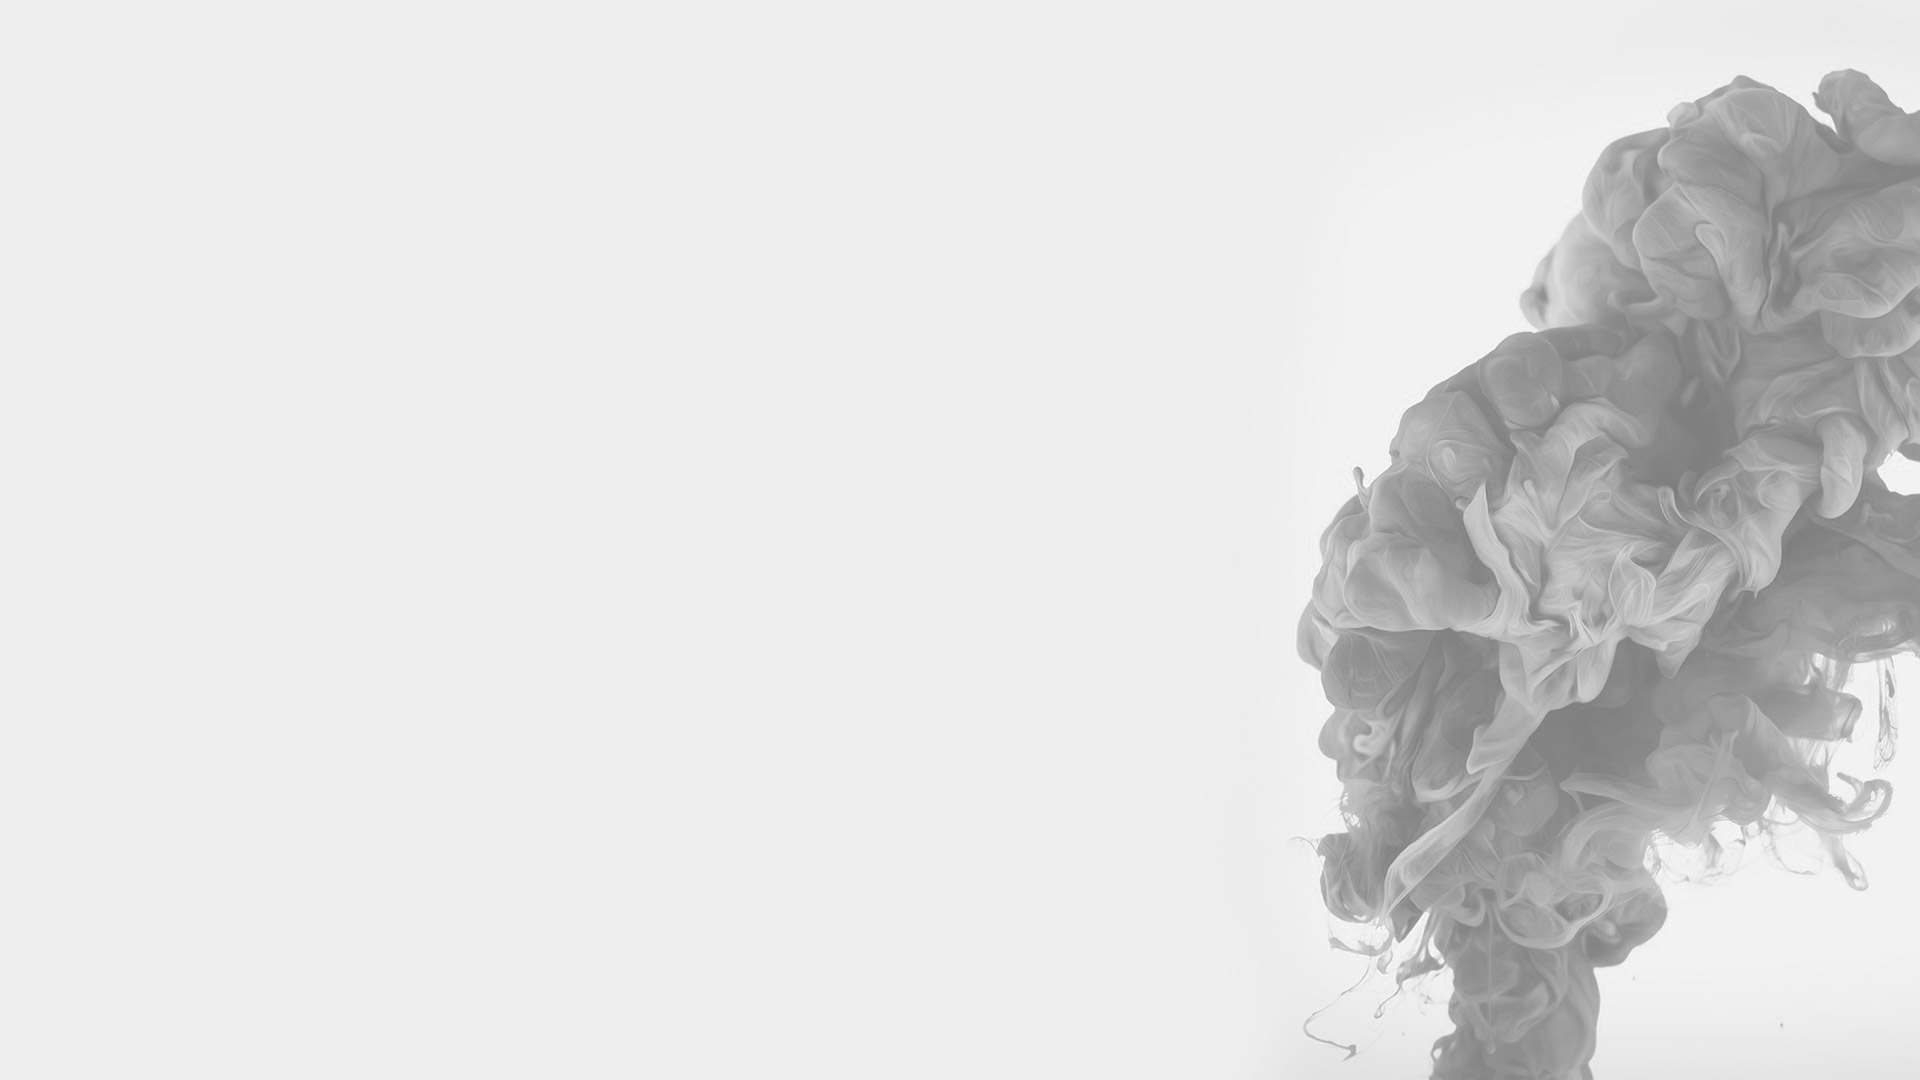
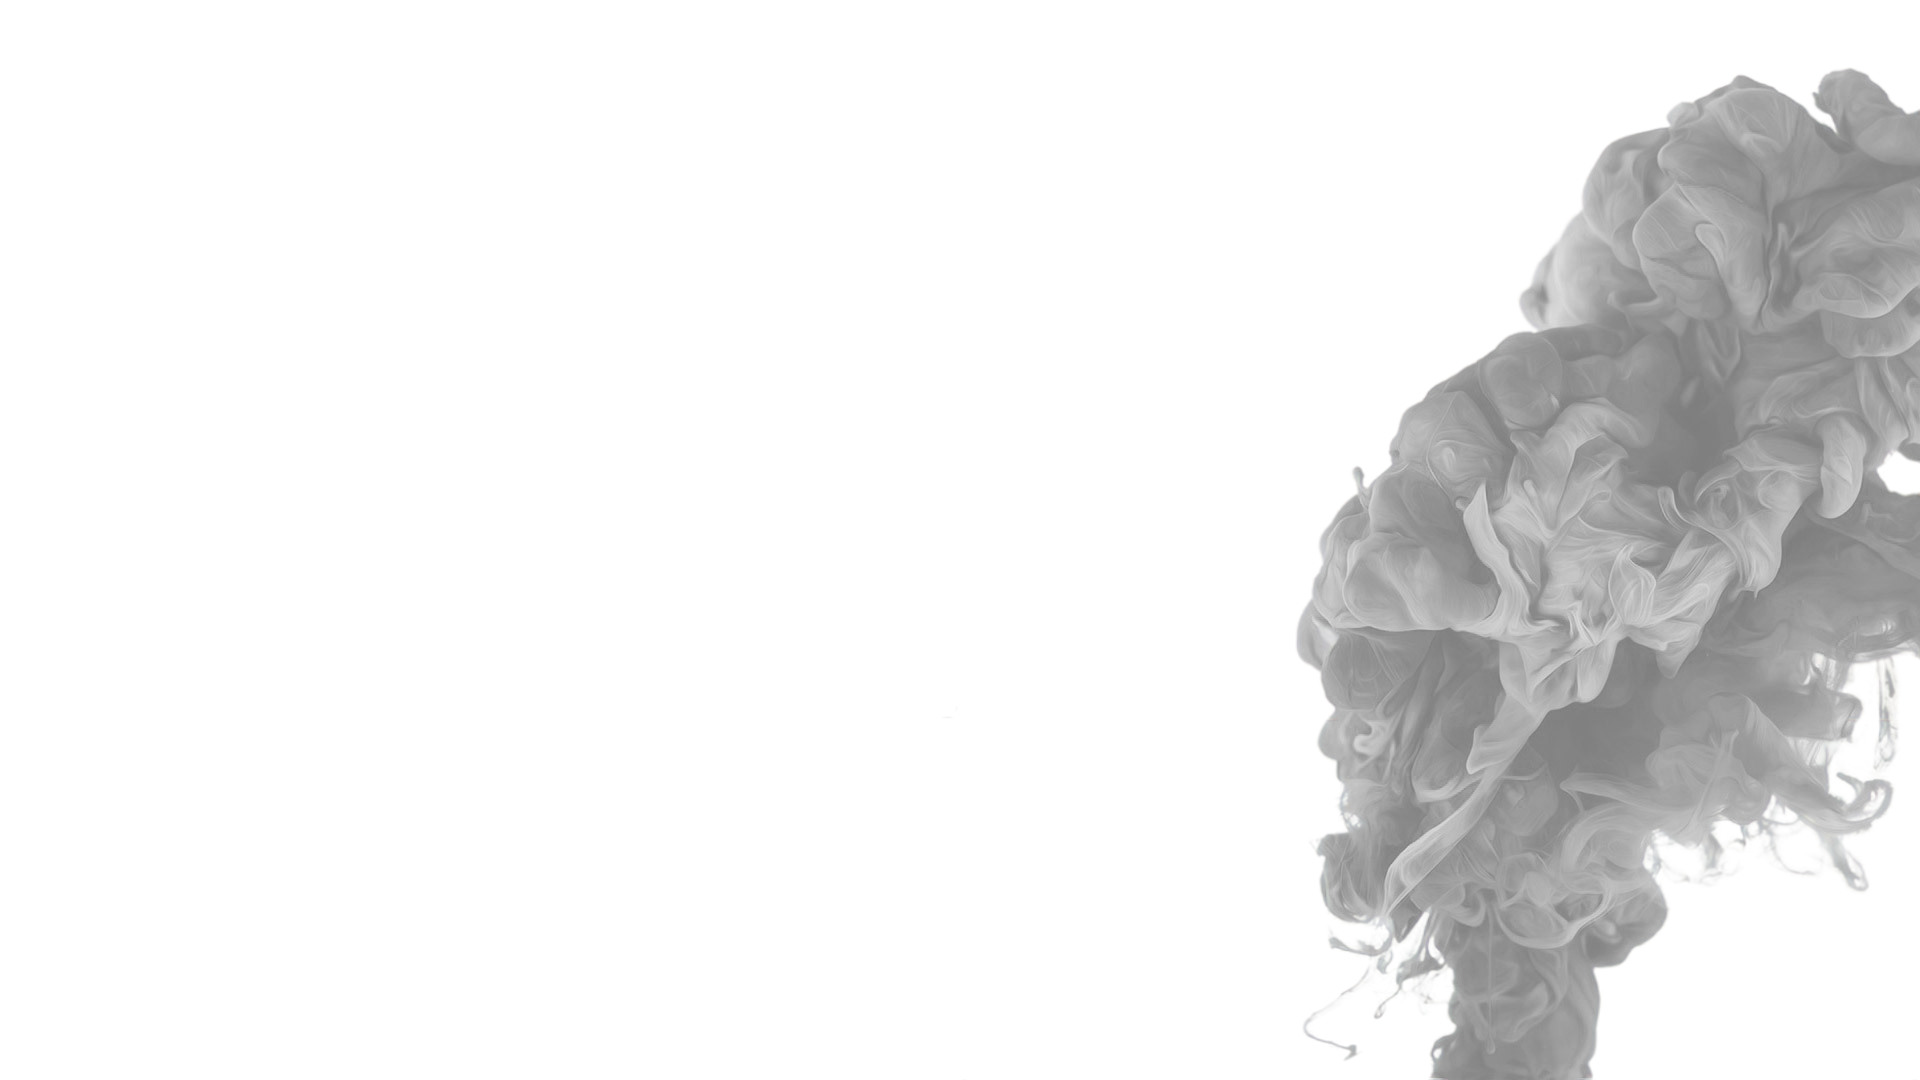
Home page dark mose correction

Changed region(s): [[0.8125, 0.9778, 1.0, 1.0], [0.6562, 0.9472, 0.75, 1.0]]

diff --git a/src/components/home/Home.module.scss b/src/components/home/Home.module.scss
@@ -1,9 +1,5 @@
 @import "../../variables.modules";
 
-h1,h2 {
-  color: black;
-}
-
 h1 {
   font-size: 2rem;
   text-align: center;
